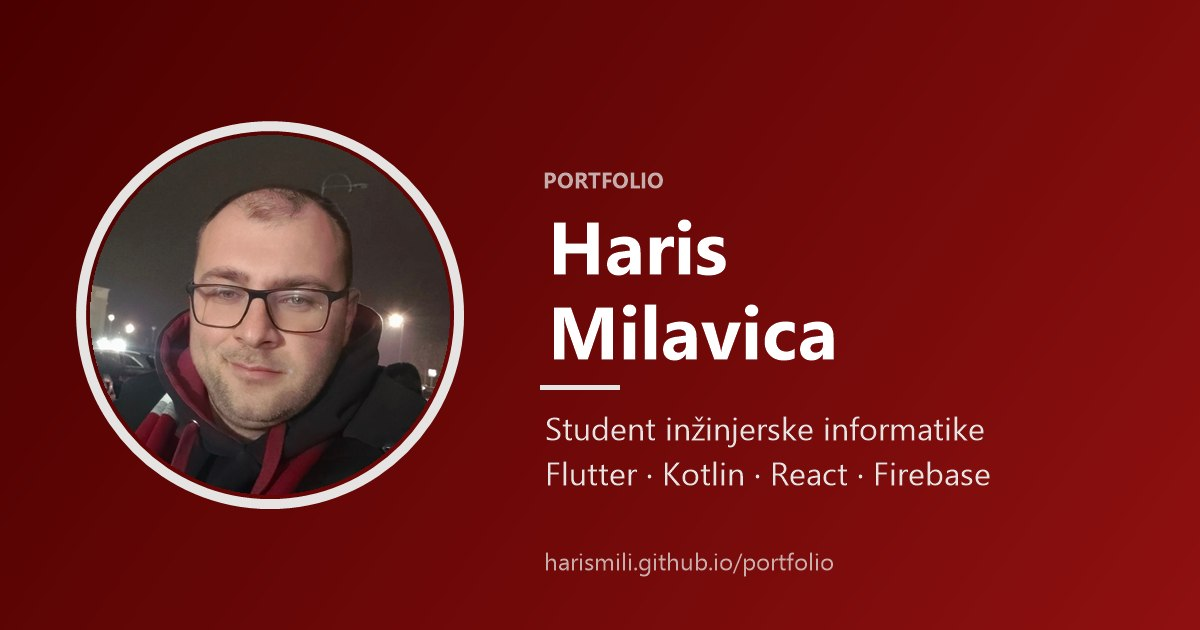
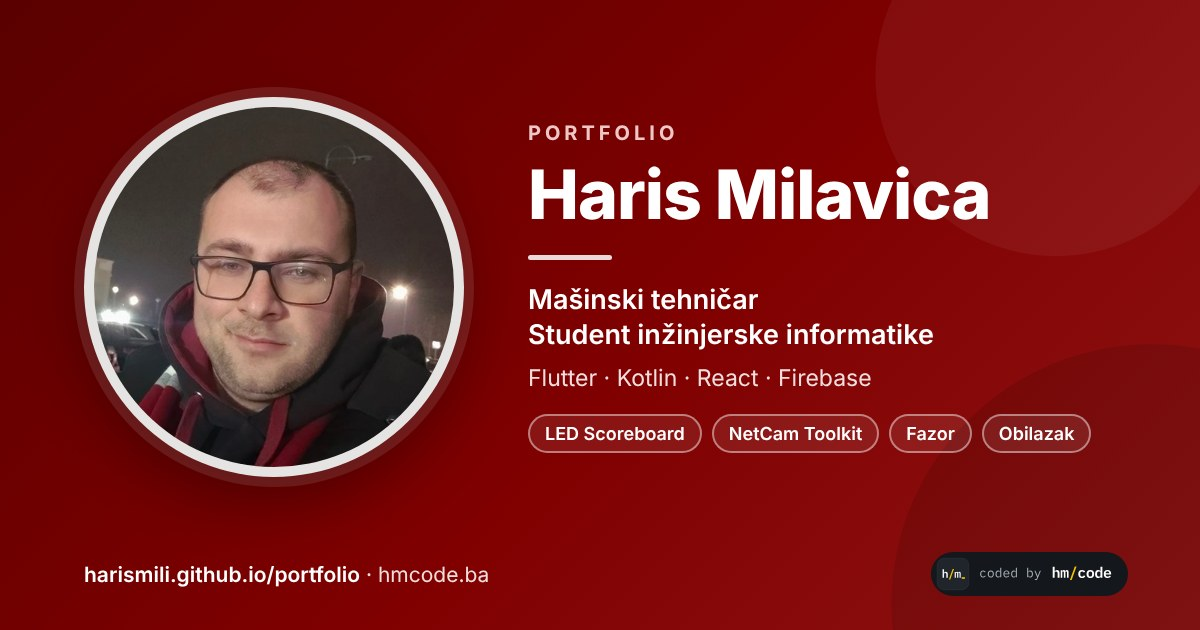
og-image: osvježena slika za dijeljenje linka
Ista bordo pozadina i fotografija, a uz to: ime u jednom redu, titule
kao u CV-u (mašinski tehničar, student inžinjerske informatike), nazivi
projekata (LED Scoreboard, NetCam Toolkit, Fazor, Obilazak), hmcode.ba
i potpis "coded by hm/code" iz hmcode-brand. og:image i twitter:image
imaju ?v=2.7, da društvene mreže preuzmu novu sliku umjesto keširane.

Claude-Session: https://claude.ai/code/session_0144qu7uL1YmC4gYVFNsieVp

diff --git a/index.html b/index.html
@@ -13,17 +13,17 @@
     <meta property="og:url" content="https://harismili.github.io/portfolio/">
     <meta property="og:title" content="Haris Milavica | Portfolio">
     <meta property="og:description" content="Student inžinjerske informatike. Razvijam aplikacije u Flutteru, Kotlinu i Reactu.">
-    <meta property="og:image" content="https://harismili.github.io/portfolio/images/og-image.jpg">
+    <meta property="og:image" content="https://harismili.github.io/portfolio/images/og-image.jpg?v=2.7">
     <meta property="og:image:type" content="image/jpeg">
     <meta property="og:image:width" content="1200">
     <meta property="og:image:height" content="630">
-    <meta property="og:image:alt" content="Haris Milavica, student inžinjerske informatike">
+    <meta property="og:image:alt" content="Haris Milavica, mašinski tehničar i student inžinjerske informatike">
 
     <meta name="twitter:card" content="summary_large_image">
     <meta name="twitter:title" content="Haris Milavica | Portfolio">
     <meta name="twitter:description" content="Student inžinjerske informatike. Razvijam aplikacije u Flutteru, Kotlinu i Reactu.">
-    <meta name="twitter:image" content="https://harismili.github.io/portfolio/images/og-image.jpg">
-    <meta name="twitter:image:alt" content="Haris Milavica, student inžinjerske informatike">
+    <meta name="twitter:image" content="https://harismili.github.io/portfolio/images/og-image.jpg?v=2.7">
+    <meta name="twitter:image:alt" content="Haris Milavica, mašinski tehničar i student inžinjerske informatike">
 
     <link rel="stylesheet" href="https://cdnjs.cloudflare.com/ajax/libs/font-awesome/6.4.2/css/all.min.css">
     <!-- ?v= povećati pri svakoj izmjeni style.css ili script.js, da preglednik ne koristi staru verziju iz keša -->
